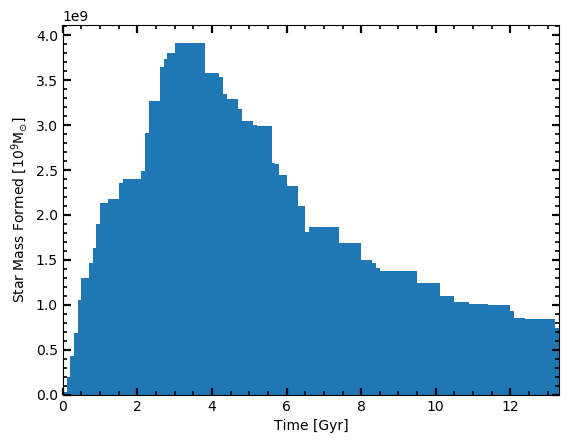
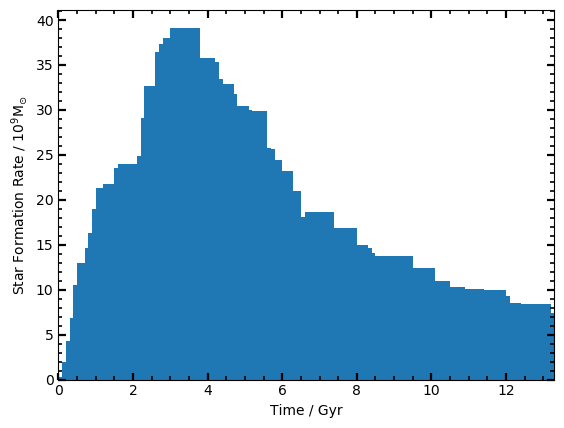
key error encounter

diff --git a/fitsplot.py b/fitsplot.py
@@ -34,7 +34,7 @@ snapdata=Table.read("star_data.fits").to_pandas()
 infile='/home/s1746414/shp/m100n1024_151.hdf5'
 obj=caesar.load(infile) #55609 galaxies
 slist = obj.galaxies[0].slist #first galaxy, most massive
-
+"""
 #plot mass against age
 def mass_v_age(snapdata):
     #plt.scatter(star_masses,star_ftime)
@@ -56,15 +56,6 @@ def mass_v_age(snapdata):
 
 #mass_v_age(data)
 """
-#arange galaxies by mass (already done, whoops)
-def biggest(data):
-    big=None
-    #[i.mass for i in obj.galaxies]
-    for i in 55609:
-        if obj.galaxies[i].masses => big:
-            big=obj.galaxies[i].masses
-    return i
-"""
 #histogram of 100Myr bins, weighted by mass to demonstrate SF
 def histogram(snapdata,obj,slist):
     ida=snapdata["ID"].values #57,825,795 objects
@@ -82,41 +73,41 @@ def histogram(snapdata,obj,slist):
     masser = snapdata["mass"][mask]
 
     hist, bins = np.histogram(formation_times,bins=np.arange(0,13.4,0.1),weights=masser)
-    return hist,bins
+    return bins,hist
 
 #plotting the histogram, SFH
 def histbarplot(hist,bins):
-    plt.bar(bins[:-1], hist)
+    plt.bar(bins[:-1], hist/10**8)
     plt.xlim(min(bins),max(bins))
-    plt.xlabel('Time [Gyr]')
-    plt.ylabel('Star Mass Formed [$10^9\\mathrm{M_{\\odot}}$]')
-    plt.savefig("g1sfh.png",bbox_inches="tight",overwrite=True)
+    plt.xlabel('Time / Gyr')
+    plt.ylabel('Star Formation Rate / $10^9\\mathrm{M_{\\odot}}$')
+    #plt.savefig("g1sfh.png",bbox_inches="tight",overwrite=True)
     plt.show()
 
 #saving SFHs
-def tabulate(snapdata, hist, bins):
-    df=pd.DataFrame(data=np.c_[hist,bins],index=snapdata["ID"],columns=["SF","period"])
+def tabulate(snapdata,arr,obj,bins):
+    df=pd.DataFrame(data=arr,index=bins[:-1],columns=obj.galaxies[:5])#range(5))
     tab = Table.from_pandas(df)
     fits.BinTableHDU(data=tab).writeto("starp_hist.fits", overwrite=True)
 
 
 #for the first 100 most massive galaxies
-blank=[]
-examples=random.sample(range(100),3)#plot 3 random SFH of the 100
-"""
-for i in examples:
-    #e=examples[i]
-    x=obj.galaxies[i].slist
-    a,m=histogram(snapdata,obj,x)
-    histbarplot(a,m)
-""
-for i in range(100)
+array=[]
+for i in range(5):
     slist=obj.galaxies[i].slist
-    hist, bins=histogram(snapdata,obj,slist)
-    #blank.append(hist)
-    if i == examples[:]: histbarplot(hist,bins)
-    else: pass
-#tabulate(snapdata, hist, bins)
-"""
-hist,bins=histogram(snapdata,obj,slist)
-histbarplot(hist,bins)
+    bins,hist=histogram(snapdata,obj,slist)
+    array.append(hist)
+arr=np.array(array).T
+print(arr.shape)
+
+tabulate(snapdata,arr,obj,bins)
+
+examples=[0,42,99]
+#examples=random.sample(range(100),3)#plot 3 random SFH of the 100
+for e in examples:
+    x=obj.galaxies[e].slist
+    a,m=histogram(snapdata,obj,x)
+    histbarplot(m,a)
+
+#bins,hist=histogram(snapdata,obj,slist)
+#histbarplot(hist,bins)

diff --git a/csar.py b/csar.py
@@ -31,8 +31,8 @@ obj=caesar.load(infile)
 
 fig=plt.figure(figsize=(6,5))
 ax=plt.subplot()
-ax.set_xlabel("$\\mathrm{log_{10}}\\mathrm{(M_{\\star})[M_{\\odot}]}$")
-ax.set_ylabel("$\\mathrm{log_{10}}\\mathrm{(SFR)[M_{\\odot}yr^{-1}]}$")
+ax.set_xlabel("$\\mathrm{log_{10}\\left(\\frac{M_{\\star}}{M_{\\odot}}\\right)}$")
+ax.set_ylabel("$\\mathrm{log_{10}\\left(\\frac{SFR}{M_{\\odot}yr^{-1}}\\right)}$")
 
 x=np.log10([i.mass for i in obj.galaxies])
 y=np.log10([j.sfr for j in obj.galaxies])
